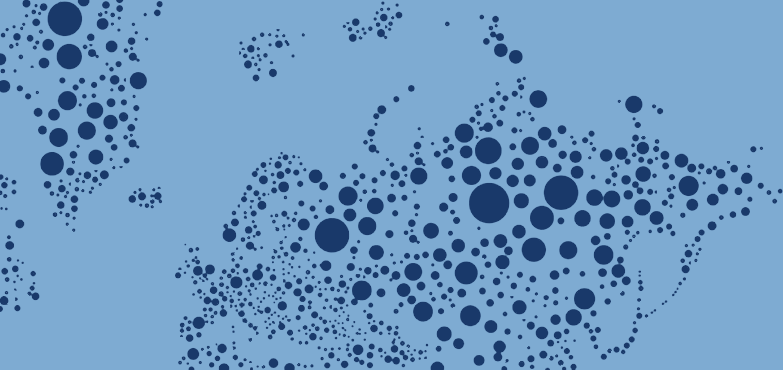
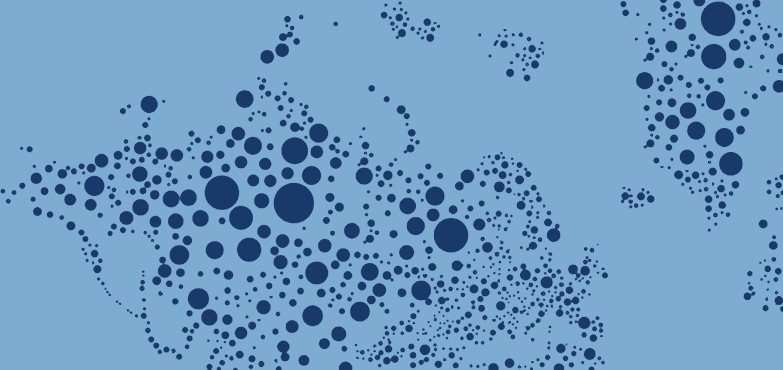
albright background fix

diff --git a/css/style.css b/css/style.css
@@ -271,9 +271,9 @@
     #projects .project-block.albright .project-image {
         background-image: url('../img/backgrounds/albright_background.png');
         background-color: #7eabd2;
-        background-position: 11% 44%;
+        background-position: 0 0;
         background-repeat: no-repeat;
-        background-size: 127%;
+        background-size: 100%;
     }
 
     #projects .project-block.albright .project-info {
